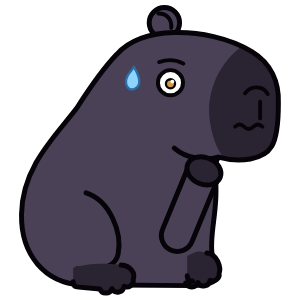
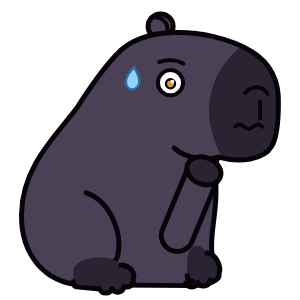
fix(mascota): patas redondeadas, oreja lejana más chica y cabecita completa al asomarse
- La orilla de arriba de las patas cafés es redondeada, como en la
  ilustración, en lugar de plana.
- La oreja lejana es más chica y solo asoma detrás de la cabeza.
- Al asomarse, la oreja ya no queda cortada por el borde de la imagen.

Claude-Session: https://claude.ai/code/session_01PvyFedfVVzz3SMptyeSPZm

Changed region(s): [[0.48, 0.0, 0.63, 0.12], [0.24, 0.84, 0.39, 0.9], [0.63, 0.81, 0.69, 0.87]]

diff --git a/scripts/generar_capibara.js b/scripts/generar_capibara.js
@@ -65,7 +65,7 @@ const MUZZLE = 'M 846 136 C 930 186 962 278 950 350 C 942 400 926 432 906 452 L 
 
 const EYE = [1054, 246];
 const EAR_NEAR = [1158, 122];
-const EAR_FAR = [1070, 88];
+const EAR_FAR = [1080, 98];
 
 function ear(P, [x, y], r = 44) {
   return (
@@ -84,7 +84,7 @@ function foot(P, x0, x1, y0, y1) {
     `M ${x0 + 34} ${y0} C ${x0 + 8} ${y0 + 2} ${x0 - 4} ${y1 - 34} ${x0 + 2} ${y1 - 18} ` +
     `a 17 17 0 0 0 24 18 a 17 17 0 0 0 32 6 a 17 17 0 0 0 32 1 L ${x1 - 14} ${y1 + 2} Q ${x1} ${y1 + 2} ${x1} ${y1 - 12}`;
   // la orilla de arriba es una curva sin contorno que se funde con la pierna
-  const top = ` L ${x1} ${y0 + 8} C ${x1 - 30} ${y0 - 6} ${x0 + 60} ${y0 - 6} ${x0 + 34} ${y0} Z`;
+  const top = ` L ${x1} ${y0 + 14} C ${x1 - 8} ${y0 - 26} ${x0 + 54} ${y0 - 30} ${x0 + 34} ${y0} Z`;
   return (
     `<path d="${edge}${top}" fill="${P.dark}"/>` +
     `<path d="${edge}" fill="none" stroke="${P.line}" stroke-width="${LW}" stroke-linecap="round" stroke-linejoin="round"/>`
@@ -179,7 +179,7 @@ function legEdges(P, [bx, by], [tx, ty], w) {
 
 /** Capibara completo (sin la oreja cercana, que va en su propia capa). */
 function capybara(P, id, { eyes = 'open', look = 0, mouth = 'smile', frontLegs = true, sweat = false } = {}) {
-  let s = ear(P, EAR_FAR, 40);
+  let s = ear(P, EAR_FAR, 33);
   s += `<clipPath id="sil${id}"><path d="${SILHOUETTE}"/></clipPath>`;
   s += `<path d="${SILHOUETTE}" fill="${P.fur}"/>`;
   s += `<g clip-path="url(#sil${id})"><path d="${MUZZLE}" fill="${P.dark}"/></g>`;
@@ -264,8 +264,8 @@ function running(P) {
 }
 
 /** Cabeza asomándose por el borde (mira hacia adentro, con el hocico por delante). */
-const PEEK = { w: 180, h: 165 };
-const peek = (P) => svg(PEEK.w, PEEK.h, g(4, 4, ear(P, EAR_NEAR) + capybara(P, 'p'), false));
+const PEEK = { w: 180, h: 172 };
+const peek = (P) => svg(PEEK.w, PEEK.h, g(4, 14, ear(P, EAR_NEAR) + capybara(P, 'p'), false));
 
 // ───────────────────────────── anclas para el código ─────────────────────────────
 

diff --git a/src/components/mascot/sprites.ts b/src/components/mascot/sprites.ts
@@ -186,7 +186,7 @@ const CAPI_RUNNING: typeof RUNNING = {
 };
 
 /** El capibara asoma la cabeza (mirando hacia adentro de la pantalla). */
-const headPeek = (src: ImageSourcePropType): Peek => ({ src, w: 180, h: 165, view: [150, 150], offset: [0, -6] });
+const headPeek = (src: ImageSourcePropType): Peek => ({ src, w: 180, h: 172, view: [150, 156], offset: [0, -4] });
 
 const CAPI_DARK = {
   idle: {
